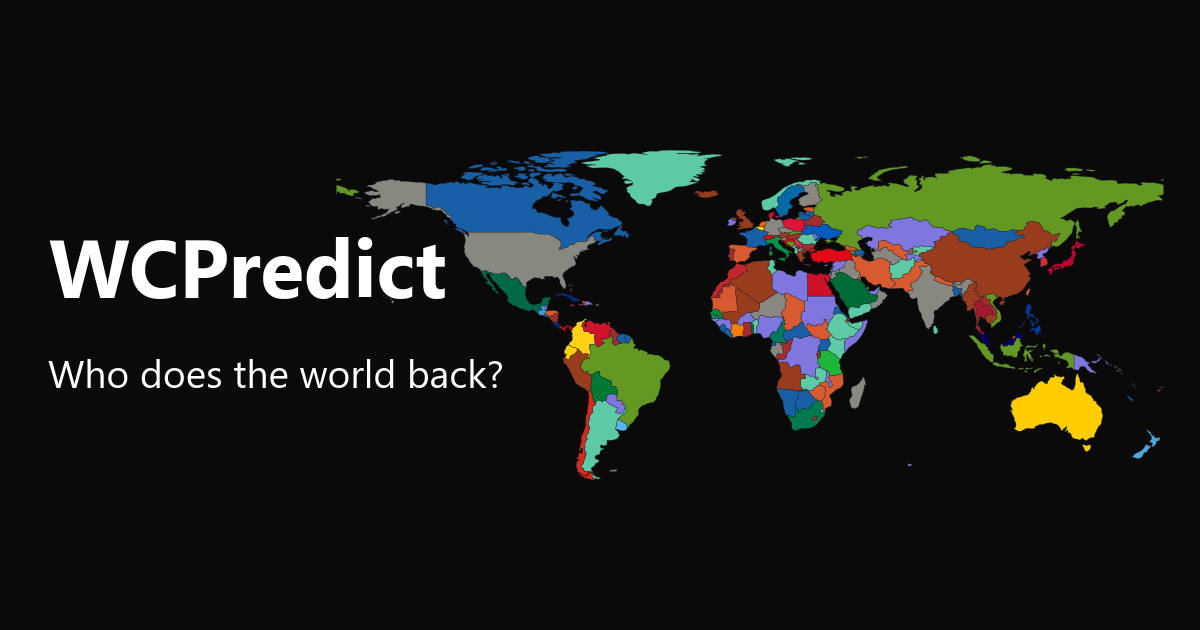
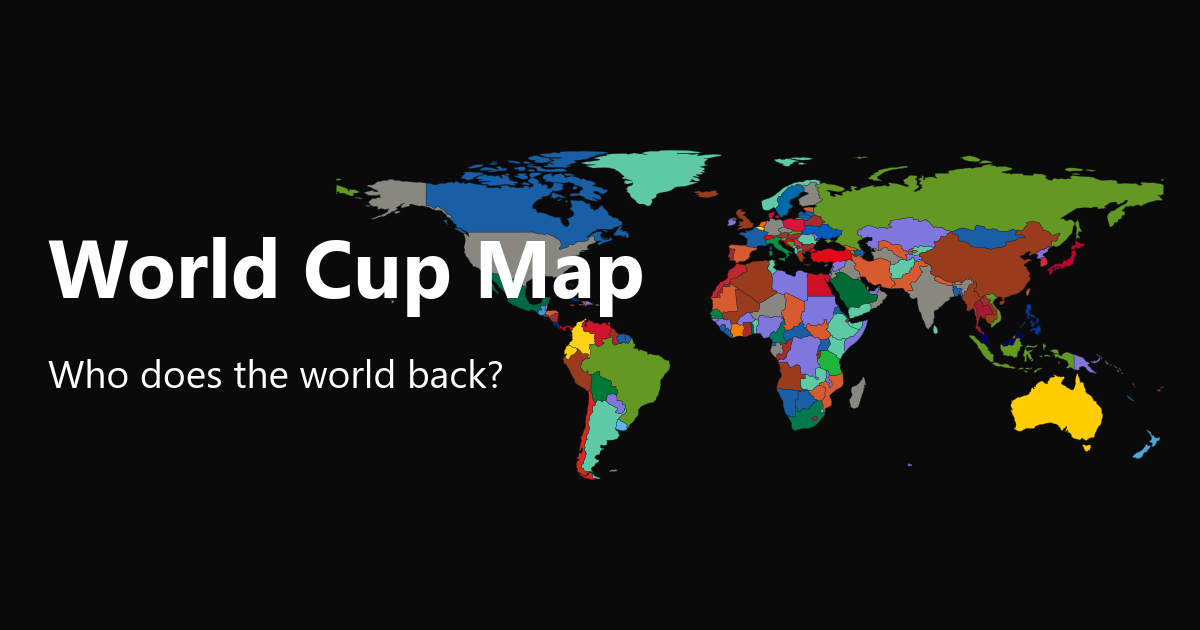
rebrand from WCPredict to World Cup Map
Update site title, meta tags, OG image, and design doc for worldcupmap.io domain.

Changed region(s): [[0.0308, 0.3619, 0.555, 0.5127]]

diff --git a/index.html b/index.html
@@ -3,19 +3,19 @@
 <head>
   <meta charset="UTF-8" />
   <meta name="viewport" content="width=device-width, initial-scale=1.0" />
-  <title>WCPredict — Who does the world back?</title>
+  <title>World Cup Map — Who does the world back?</title>
   <meta name="description" content="See how every nation is predicting the 2026 World Cup. Add your pick to the global map." />
   <meta property="og:type" content="website" />
-  <meta property="og:title" content="WCPredict — Who does the world back?" />
+  <meta property="og:title" content="World Cup Map — Who does the world back?" />
   <meta property="og:description" content="See how every nation is predicting the 2026 World Cup. Add your pick to the global map." />
-  <meta property="og:image" content="https://wcpredict-zeta.vercel.app/og-image.png?v=2" />
+  <meta property="og:image" content="https://worldcupmap.io/og-image.png?v=3" />
   <meta property="og:image:width" content="1200" />
   <meta property="og:image:height" content="630" />
-  <meta property="og:url" content="https://wcpredict-zeta.vercel.app" />
+  <meta property="og:url" content="https://worldcupmap.io" />
   <meta name="twitter:card" content="summary_large_image" />
-  <meta name="twitter:title" content="WCPredict — Who does the world back?" />
+  <meta name="twitter:title" content="World Cup Map — Who does the world back?" />
   <meta name="twitter:description" content="See how every nation is predicting the 2026 World Cup. Add your pick to the global map." />
-  <meta name="twitter:image" content="https://wcpredict-zeta.vercel.app/og-image.png?v=2" />
+  <meta name="twitter:image" content="https://worldcupmap.io/og-image.png?v=3" />
   <link rel="stylesheet" href="style.css" />
   <script src="https://cdnjs.cloudflare.com/ajax/libs/d3/7.8.5/d3.min.js"></script>
   <script src="https://cdnjs.cloudflare.com/ajax/libs/topojson/3.0.2/topojson.min.js"></script>
@@ -26,7 +26,7 @@
   <div id="app">
     <header id="header">
       <div id="header-left">
-        <h1>WCPredict</h1>
+        <h1>World Cup Map</h1>
         <p class="sub">Who does the world think wins the 2026 FIFA World Cup?</p>
       </div>
       <div id="header-controls">
@@ -79,7 +79,7 @@
       <summary>About / How it works</summary>
       <div class="about-body">
         <div class="about-item">
-          <strong>What is WCPredict?</strong>
+          <strong>What is World Cup Map?</strong>
           <p>A live map showing how fans from every nation are predicting the 2026 World Cup. No account needed, just pick and submit.</p>
         </div>
         <div class="about-item">

diff --git a/scripts/generate-og-image.py b/scripts/generate-og-image.py
@@ -97,7 +97,7 @@ def main() -> None:
     fig.text(
         TEXT_X,
         TITLE_Y,
-        "WCPredict",
+        "World Cup Map",
         color=TEXT,
         fontproperties=title_font,
         ha="left",

diff --git a/wcpredict-design-doc.md b/wcpredict-design-doc.md
@@ -1,4 +1,4 @@
-# WCPredict — Pre-Launch Design Document
+# World Cup Map — Pre-Launch Design Document
 *Last updated: June 3, 2026 | Tournament starts: June 11, 2026 | Days remaining: 8*
 
 ---
@@ -6,7 +6,7 @@
 ## Current Status
 
 ### ✅ Done
-- Vercel project live at `wcpredict-zeta.vercel.app`
+- Vercel project live at `worldcupmap.io`
 - Supabase database with all 5 tables (nations, matches, predictions, match_results, moderation_flags)
 - 195 nations seeded with ISO2 codes and flag emojis
 - 48 group stage matches seeded with correct kickoff times
@@ -318,28 +318,28 @@ for each row execute function score_predictions();
 **Status:** Not implemented
 **Minimum viable (static):**
 ```html
-<meta property="og:title" content="WCPredict — Who does the world back?">
+<meta property="og:title" content="World Cup Map — Who does the world back?">
 <meta property="og:description" content="See how every nation is predicting the 2026 World Cup. Add your pick to the global map.">
-<meta property="og:image" content="https://wcpredict-zeta.vercel.app/og-image.png">
-<meta property="og:url" content="https://wcpredict-zeta.vercel.app">
+<meta property="og:image" content="https://worldcupmap.io/og-image.png">
+<meta property="og:url" content="https://worldcupmap.io">
 <meta name="twitter:card" content="summary_large_image">
-<meta name="twitter:image" content="https://wcpredict-zeta.vercel.app/og-image.png">
+<meta name="twitter:image" content="https://worldcupmap.io/og-image.png">
 ```
-Create `og-image.png` (1200×630px) — screenshot of the map with "WCPredict" branding.
+Create `og-image.png` (1200×630px) — screenshot of the map with "World Cup Map" branding.
 
 **Dynamic (post-launch):** Satori + resvg in `/api/og` — week 2 if traction.
 
 ### 4.2 About Section
 **Status:** Not implemented
 Add a simple collapsible section below the submit button explaining:
-- What WCPredict is
+- What World Cup Map is
 - How the map colours work
 - How accuracy leaderboard is calculated
 - Privacy: no account needed, IP hashed and not stored
 
 ### 4.3 Domain
 **Status:** Not purchased. Target: June 8.
-- Buy `wcpredict.com` or `wcpredict.app` on Porkbun
+- Buy `worldcupmap.io` on Porkbun
 - Point nameservers to Cloudflare (free) — unlocks Turnstile + CF-IPCountry + DDoS protection
 - Add CNAME to Vercel, add custom domain in Vercel dashboard
 - SSL auto-provisions
@@ -350,7 +350,7 @@ Add a simple collapsible section below the submit button explaining:
 - r/soccer — "Built a live world map showing how every country predicts the World Cup"
 - r/worldcup, r/FIFAWC, r/CONCACAF
 - Drop link in r/soccer opening match thread
-- Twitter/X with map screenshot + hashtags: #WorldCup2026 #WCPredict
+- Twitter/X with map screenshot + hashtags: #WorldCup2026 #WorldCupMap
 - World Cup 2026 Discord servers
 
 ---
